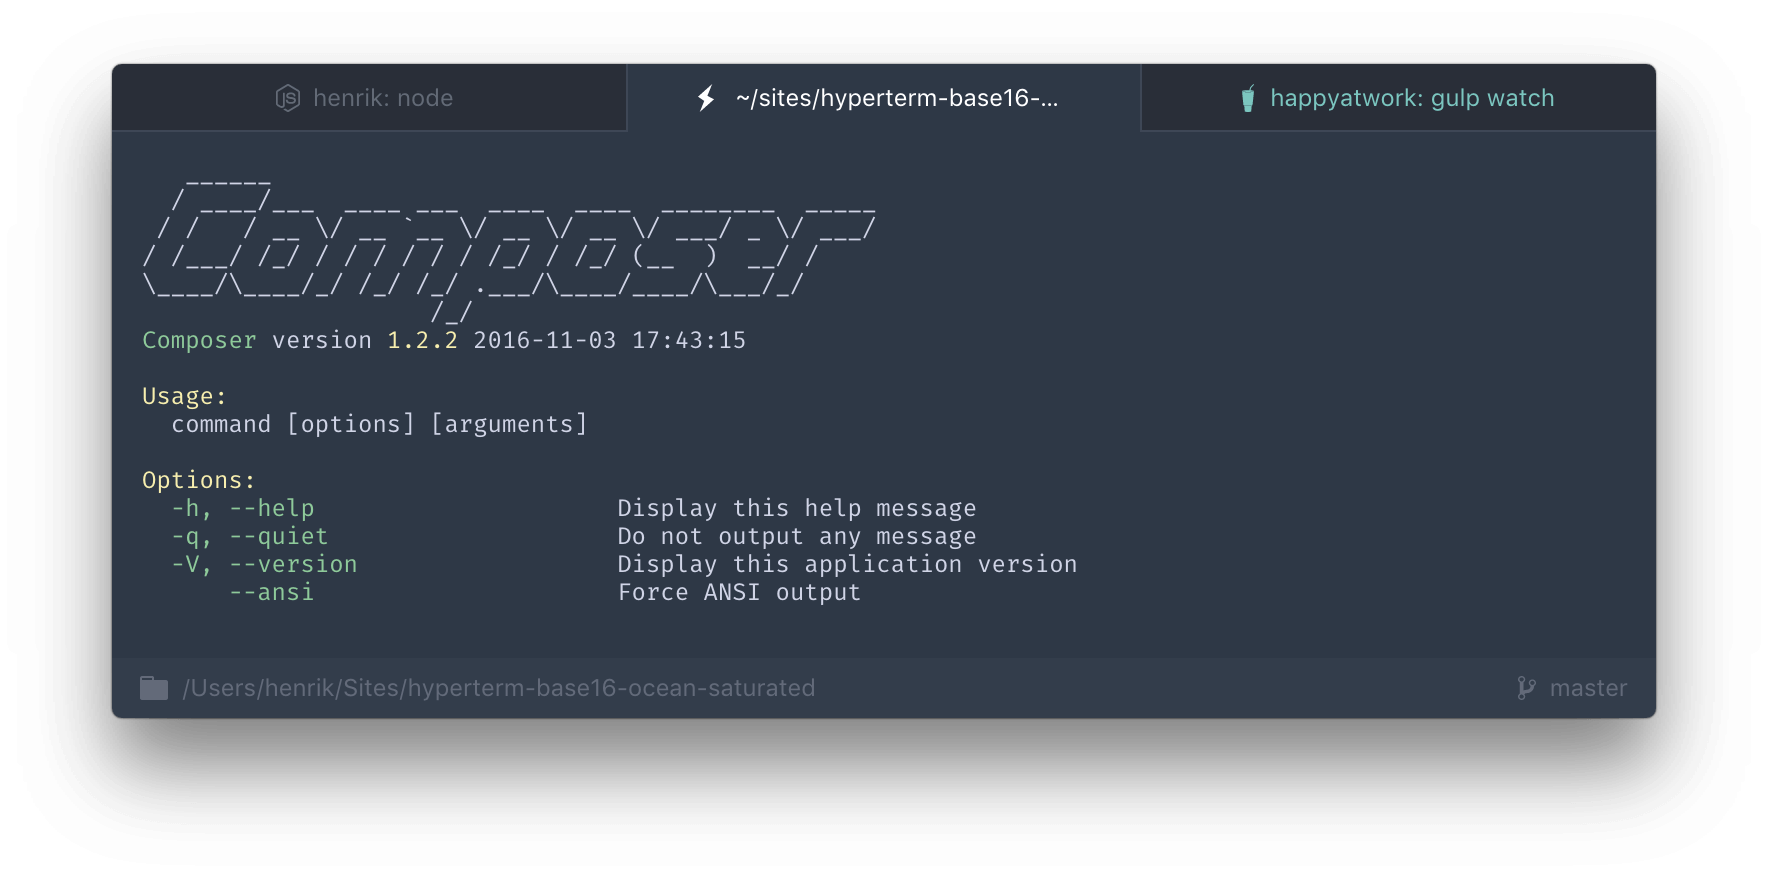
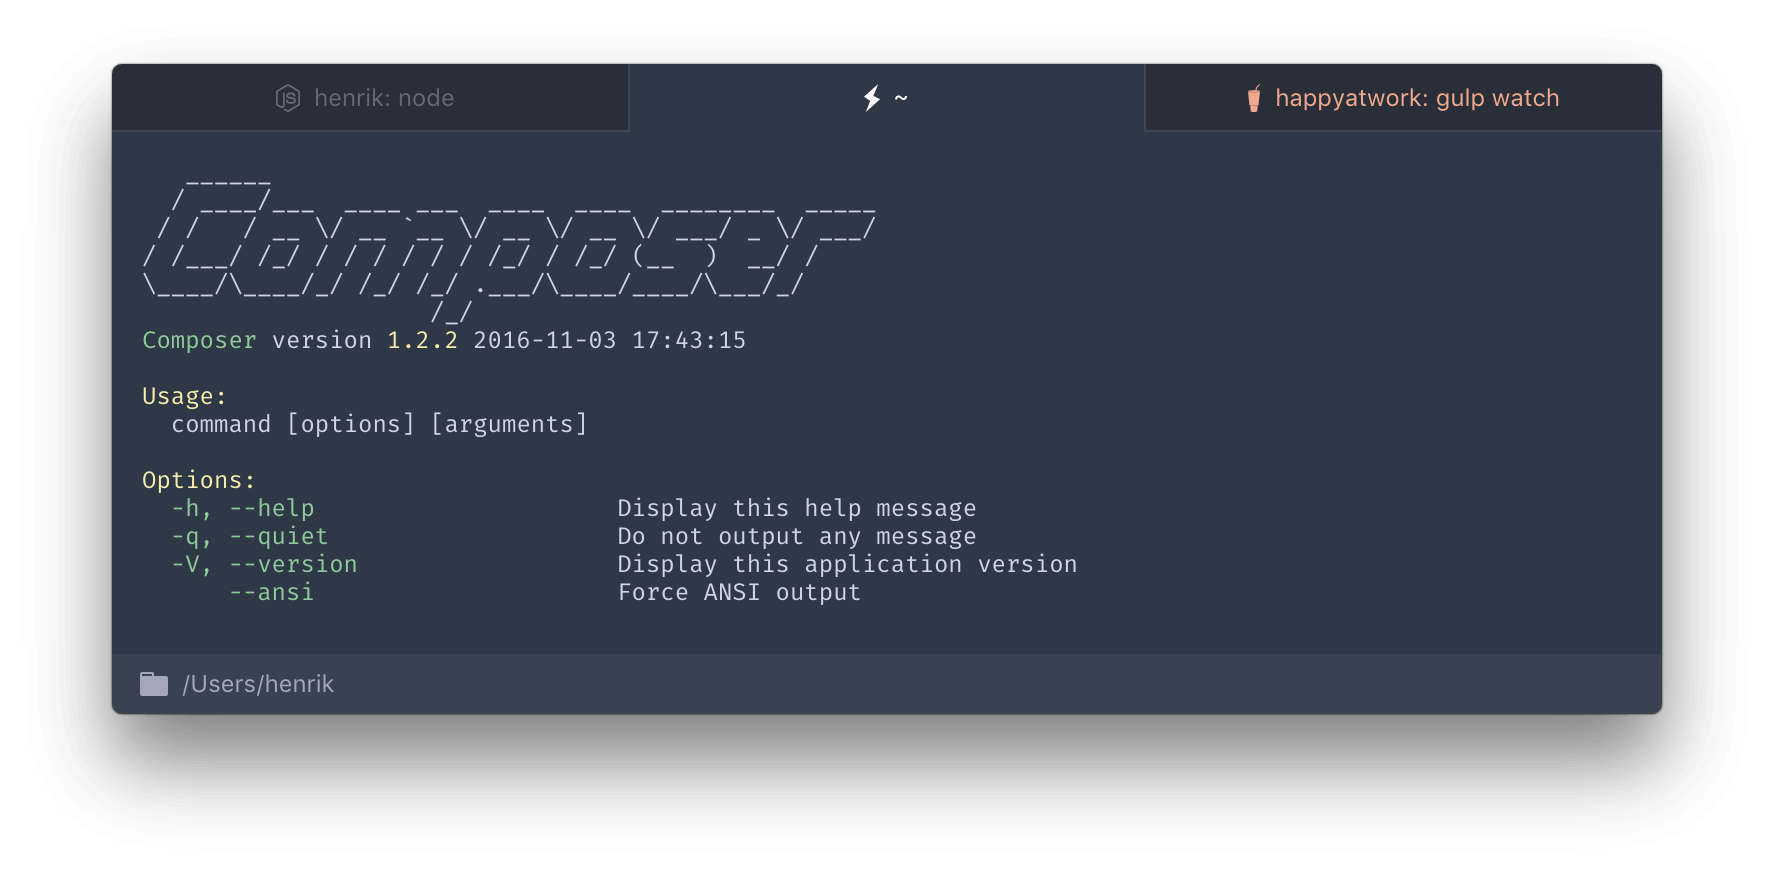
changed activity color & updated screens

diff --git a/index.js b/index.js
@@ -147,7 +147,7 @@ exports.decorateConfig = config => {
                 display: none;
             }
             .tab_tab.tab_hasActivity .tab_text {
-                color: #7BC6C0;
+                color: #FFB68E;
                 animation: pulse 3s ease-in-out infinite;
             }
             .tab_tab.tab_hasActivity:hover .tab_text {
@@ -168,10 +168,10 @@ exports.decorateConfig = config => {
                 }
             }
             .tab_tab.tab_hasActivity .tab_icon::before {
-                background-color: #7BC6C0;
+                background-color: #FFB68E;
             }
             .tab_tab.tab_hasActivity .tab_icon:hover {
-                background-color: #7BC6C0;
+                background-color: #FFB68E;
             }
             .tab_tab.tab_hasActivity .tab_icon:hover::before {
                 background-color: #FFFFFF;
@@ -227,7 +227,7 @@ exports.decorateConfig = config => {
                 background-color: #FFFFFF;
             }
             .tab_tab.tab_hasActivity .tab_service::before {
-                background-color: #7BC6C0;
+                background-color: #FFB68E;
             }
         `
     });
